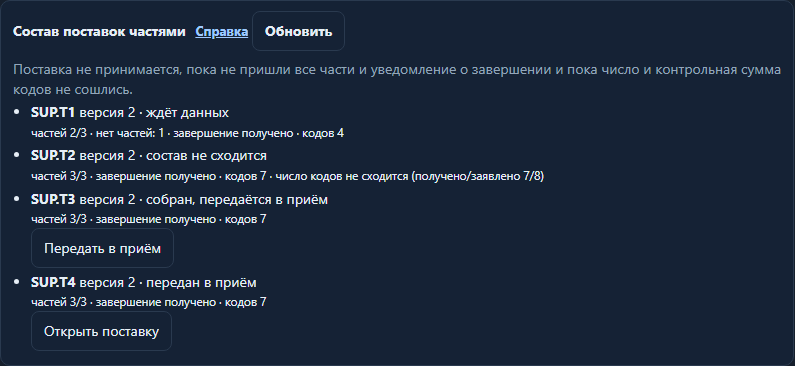
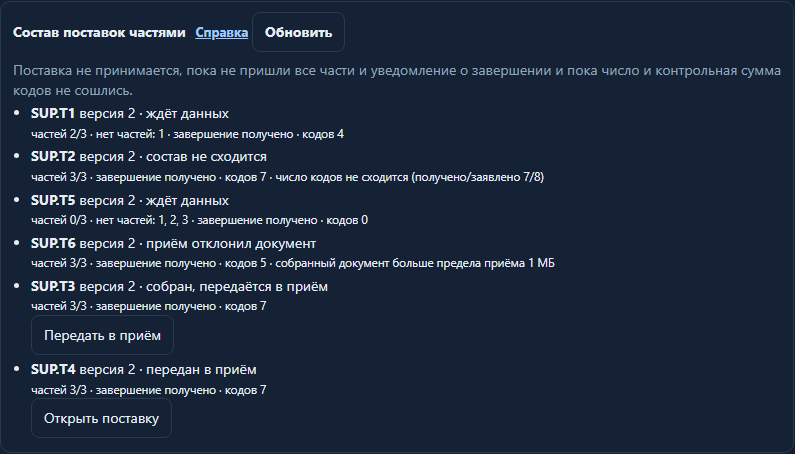
C-0163 rev1: END before parts stored with repeated header, slash-safe deliver body, bounded 1 MB assembled rejection

diff --git a/admin/wms_admin_frontend/public/help/tradecase-documents.html b/admin/wms_admin_frontend/public/help/tradecase-documents.html
@@ -147,10 +147,10 @@
 <p>Рядом с планом показываются факты визита и отклонения по ним: машина не приехала к началу плана, стоит у других ворот, встала позже плана или занимает ворота дольше плана. План при опоздании сам не пересчитывается. На общем Ганте план ворот показан плановым интервалом на дорожке ворот рядом с фактическими посещениями.</p>
 <p>Если раздел пишет, что план ворот на сервере ещё не включён, планы неизвестны — это не означает, что ворота свободны.</p></section>
 <section id="supply-parts"><h2>Состав поставки частями</h2>
-<p>Источник может передавать список кодов поставки частями: сначала части с номерами 1…N, затем уведомление о завершении с общим числом кодов и контрольной суммой. Поставка не принимается и товар не появляется, пока не пришли все части и завершение и пока число и контрольная сумма кодов не сошлись. Части могут приходить в любом порядке; повтор той же части ничего не меняет, другая часть под тем же номером отклоняется.</p>
+<p>Источник может передавать список кодов поставки частями: сначала части с номерами 1…N, затем уведомление о завершении с общим числом кодов и контрольной суммой. Поставка не принимается и товар не появляется, пока не пришли все части и завершение и пока число и контрольная сумма кодов не сошлись. Части и завершение могут приходить в любом порядке, в том числе завершение раньше первой части: тогда все части показываются как недостающие. Повтор той же части или завершения ничего не меняет; другая часть под тем же номером, другое завершение или другие сведения о поставке отклоняются.</p>
 <ol><li>Откройте вкладку «Сообщения обмена». Блок «Состав поставок частями» показывает каждую передачу: сколько частей получено, каких номеров нет, получено ли завершение и сколько кодов пришло.</li>
 <li>«Ждёт данных» — не хватает частей или завершения. «Состав не сходится» — число кодов или контрольная сумма не совпали с уведомлением о завершении: источник должен прислать исправленную версию.</li>
-<li>Когда всё сошлось, состав один раз передаётся в обычный приём документа. «Открыть поставку» открывает принятый документ.</li>
+<li>Когда всё сошлось, состав один раз передаётся в обычный приём документа. «Открыть поставку» открывает принятый документ. Если собранный документ больше предела приёма 1 МБ, передача отклоняется с этой причиной: источник должен разделить поставку.</li>
 <li>Если передача прервалась, нажмите «Передать в приём»: состав уйдёт тем же сообщением, и второй документ не появится.</li></ol>
 <p>Части старой версии после прихода новой ничего не меняют. Передачи собственников, к которым у вас нет доступа, не показываются. Этот формат — дополнение приёма WMS, а не протокол SAP. Исходящие подтверждения состава и закрытие сборки до подтверждения состава паллет этим блоком не покрываются.</p></section>
 </main></html>

diff --git a/admin/wms_admin_frontend/src/features/integrations/tradecase/SupplyParts.tsx b/admin/wms_admin_frontend/src/features/integrations/tradecase/SupplyParts.tsx
@@ -14,7 +14,8 @@ const STATUS: Record<string, string> = { OPEN: "ждёт данных", MISMATCH
 const help = (id: string, text: string) => ({ id: "tradecase.supply.parts." + id, text, anchor: "supply-parts" });
 const reason = (t: Transfer) => !t.status_reason ? "" : t.status_reason === "WAITING_END" ? "нет уведомления о завершении"
   : t.status_reason.startsWith("TOTAL_MISMATCH") ? `число кодов не сходится (получено/заявлено ${t.status_reason.split(":")[1]})`
-  : t.status_reason === "CODES_HASH_MISMATCH" ? "контрольная сумма кодов не сходится с уведомлением о завершении" : t.status_reason;
+  : t.status_reason === "CODES_HASH_MISMATCH" ? "контрольная сумма кодов не сходится с уведомлением о завершении"
+  : t.status_reason === "SUPPLY_ASSEMBLED_TOO_LARGE" ? "собранный документ больше предела приёма 1 МБ" : t.status_reason;
 
 export function SupplyParts({ wh, onOpen }: { wh: string; onOpen: (documentId: string) => void }) {
   const [reload, setReload] = useState(0), [busy, setBusy] = useState(""), [message, setMessage] = useState("");
@@ -22,7 +23,9 @@ export function SupplyParts({ wh, onOpen }: { wh: string; onOpen: (documentId: s
   const deliver = async (t: Transfer) => {
     setBusy(t.transfer_id); setMessage("");
     try {
-      await apiFetch(`/api/tradecase/warehouses/${encodeURIComponent(wh)}/supply-transfers/${encodeURIComponent(t.source_id)}/${encodeURIComponent(t.transfer_id)}/deliver`, { method: "POST" });
+      // Identifiers may contain "/": they go in the body, not in the path.
+      await apiFetch(`/api/tradecase/warehouses/${encodeURIComponent(wh)}/supply-transfers/deliver`, { method: "POST",
+        body: JSON.stringify({ source_id: t.source_id, transfer_id: t.transfer_id }) });
       setMessage(`Состав ${t.transfer_id} передан в приём.`);
     } catch (e) {
       setMessage(e instanceof ApiRequestError && e.status === 409 ? "Передача отклонена: обновите список и проверьте причину." : "Исход передачи не подтверждён — повторите: повтор не создаст второй документ.");

diff --git a/tests/tradecase/test_trade_supply_parts.py b/tests/tradecase/test_trade_supply_parts.py
@@ -5,8 +5,13 @@ import json
 import pathlib
 import re
 import pytest
+from fastapi import FastAPI
+from fastapi.testclient import TestClient
 from pydantic import ValidationError
-from app.modules.integrations.contracts_supply_parts import (TradeSupplyPart, TradeSupplyPartsEnd, assembled_event_id, codes_sha256, end_wire, part_wire)
+from app.modules.integrations.api.supply_parts_routes import router
+from app.modules.platform.public import get_current_user
+from app.modules.integrations.contracts_supply_parts import (TradeSupplyPart, TradeSupplyPartsEnd, assembled_event_id, codes_sha256, end_wire, part_wire,
+                                                             supply_parts_service)
 from app.modules.integrations.contracts_tradecase import TradecaseError, TradeSupply
 from app.modules.integrations.infrastructure import supply_parts as subject
 
@@ -27,7 +32,7 @@ def part(no, event=None, codes=None, **kw):
 def end(**kw):
     return TradeSupplyPartsEnd.model_validate({"schema_version": 1, "event_id": "E.END", "source_id": "TC03.SAP", "warehouse_id": 210564699, "document_id": "SUP.1",
                                                "version": 2, "transfer_id": "T1", "part_count": 3, "total_codes": 7, "codes_sha256": codes_sha256(CODES),
-                                               "occurred_at": "2026-10-23T10:05:00+00:00", **kw})
+                                               "occurred_at": "2026-10-23T10:05:00+00:00", "header": HEADER, **kw})
 
 
 def test_header_is_the_supply_without_codes_and_parts_are_numbered():
@@ -46,6 +51,8 @@ def test_hashes_bind_content_not_delivery_details():
     assert a["part_hash"] == b["part_hash"] and a["header_hash"] == b["header_hash"]  # same content, other event: a repeat
     assert part_wire(part(2, codes=SPLIT[3]))["part_hash"] != a["part_hash"]  # same number, other codes: a conflict natively
     assert end_wire(end())["end_hash"] == end_wire(end(event_id="E.END2"))["end_hash"]
+    assert end_wire(end())["header_hash"] == a["header_hash"]  # END repeats the part header: one header hash binds both
+    assert end_wire(end(header={**HEADER, "mrc": "201"}))["end_hash"] != end_wire(end())["end_hash"]
     assert assembled_event_id("TC03.SAP", 210564699, "T1") == assembled_event_id("TC03.SAP", 210564699, "T1") != assembled_event_id("TC03.SAP", 210564699, "T2")
     assert len(assembled_event_id("S" * 100, 1, "T" * 100)) <= 100
 
@@ -157,6 +164,45 @@ def test_order_2_end_1_hands_over_once_with_codes_in_part_order(received):
     assert len(received) == 1
 
 
+def test_end_first_then_2_then_1_hands_over_once(received):
+    native = Native(); svc = subject.OracleSupplyParts(Gateway(native))
+    first = svc.put_end(end(), "sap")
+    assert first["status"] == "OPEN" and first["missing_parts"] == [1, 2, 3] and first["end_received"] and received == []
+    assert svc.put_part(part(2), "sap")["missing_parts"] == [1, 3]
+    svc.put_part(part(3), "sap")
+    assert svc.put_part(part(1), "sap")["status"] == "DELIVERED" and [c.code for c in received[0].payload.codes] == CODES
+    svc.put_end(end(), "sap")  # a repeated END after delivery hands nothing over again
+    assert len(received) == 1
+
+
+def test_assembled_over_the_existing_limit_is_a_bounded_rejection(received, monkeypatch):
+    native = Native(); svc = subject.OracleSupplyParts(Gateway(native))
+    for n in (1, 2, 3):
+        native.parts[n] = SPLIT[n]
+    native.end, native.status = {"x": 1}, "COMPLETE"
+    monkeypatch.setattr(subject, "LIMIT", 500)  # the same rule as the 1 MB intake limit, with a small payload
+    r = svc.deliver(210564699, "TC03.SAP", "T1", "sap")
+    assert r["status"] == "DELIVERY_REJECTED" and native.delivered["reason"] == "SUPPLY_ASSEMBLED_TOO_LARGE" and received == []
+    assert subject.HASH_FIELDS == len(',"payload_hash":"' + "0" * 64 + '","business_hash":"' + "0" * 64 + '"')
+
+
+def test_deliver_route_carries_slash_identifiers_in_the_body():
+    calls = []
+
+    class Service:
+        def deliver(self, warehouse, source, transfer, actor):
+            calls.append((warehouse, source, transfer, actor))
+            return {"status": "DELIVERED"}
+    app = FastAPI(); app.include_router(router)
+    app.dependency_overrides[get_current_user] = lambda: type("U", (), {"username": "op"})()
+    app.dependency_overrides[supply_parts_service] = Service
+    client = TestClient(app)
+    r = client.post("/api/tradecase/warehouses/210564699/supply-transfers/deliver", json={"source_id": "TC03/SAP", "transfer_id": "T/1/2"})
+    assert r.status_code == 200 and calls == [(210564699, "TC03/SAP", "T/1/2", "op")]
+    assert client.post("/api/tradecase/warehouses/210564699/supply-transfers/deliver", json={"source_id": "TC03/SAP"}).status_code == 422
+    assert client.post("/api/tradecase/warehouses/210564699/supply-transfers/deliver", json={"source_id": "a b", "transfer_id": "T"}).status_code == 422
+
+
 def test_unknown_outcome_keeps_the_transfer_and_the_same_event_is_repeated(received):
     native = Native(); svc = subject.OracleSupplyParts(Gateway(native))
     for n in (1, 2, 3):
@@ -205,6 +251,11 @@ def test_native_rules():
         assert not re.search(r"\b[a-z]\.get_(string|number|object|array)\(", stmt), stmt[:120]  # JSON object methods never inside SQL
     assert "RRL_TRADE_SUPPLY_PART_APPEND before update or delete" in text("001_schema.sql")
     assert "SUPPLY_PART_HISTORY_PRESENT" in text("rollback.sql")
+    fin = body[body.index(" procedure put_end("):body.index(" procedure assembled(")]
+    assert "SUPPLY_TRANSFER_NOT_STARTED" not in fin  # END before the first part is stored, not refused
+    assert fin.index("lock_site(") < fin.index("require_owner(p_actor,p_ware,header,1)") < fin.index("for update")
+    assert fin.index("t.END_EVENT_ID=ev and t.END_HASH=eh") < fin.index("fail('SUPPLY_END_CONFLICT')") < fin.index("t.HEADER_HASH<>hh then fail('SUPPLY_PART_HEADER_CONFLICT')")
+    assert "insert into RRL_TRADE_SUPPLY_TRANSFER" in fin and "'OPEN',p_actor,ev,eh,tot,csha,occ" in fin and fin.count("assert_current(") == 2
 
 
 def test_kit_and_live_proofs():

diff --git a/api/wms_api_server/app/modules/integrations/infrastructure/supply_parts.py b/api/wms_api_server/app/modules/integrations/infrastructure/supply_parts.py
@@ -1,12 +1,16 @@
 """SUPPLY parts adapter (C-0163). Parts/END are stored by RRL_TRADE_SUPPLY_PARTS_API in one native transaction each. A complete
 transfer is handed to the existing intake as the same canonical SUPPLY under a deterministic event id, then marked delivered in a
-separate transaction: a lost response or restart repeats the hand-over with the same event id, which the intake answers idempotently."""
+separate transaction: a lost response or restart repeats the hand-over with the same event id, which the intake answers idempotently.
+An assembled SUPPLY over the existing 1 MB intake limit is recorded as a bounded rejection; the limit is not raised."""
 from typing import Any
 import oracledb
 from ...platform.public import read_oracle_json
 from ..contracts_supply_parts import (TradeSupplyPart, TradeSupplyPartsEnd, assembled_event_id, canonical, end_wire, part_wire)
 from ..contracts_tradecase import TradecaseError, TradeEnvelope
 from .tradecase_documents import OracleTradecaseDocuments, native_error
+
+LIMIT = 1024 * 1024
+HASH_FIELDS = len(',"payload_hash":"","business_hash":""') + 2 * 64  # added by the intake before its own limit check
 
 
 class OracleSupplyParts:
@@ -15,7 +19,7 @@ class OracleSupplyParts:
 
     def _call(self, procedure: str, warehouse: int, actor: str, value: dict[str, Any]) -> dict[str, Any]:
         raw = canonical(value)
-        if len(raw.encode()) > 1024 * 1024:
+        if len(raw.encode()) > LIMIT:
             raise TradecaseError("TRADECASE_MESSAGE_TOO_LARGE", 413)
         try:
             with self.gateway.transaction("TRADECASE supply parts " + procedure) as cur:
@@ -54,6 +58,8 @@ class OracleSupplyParts:
                                                  "document_id": state["document_id"], "version": state["version"],
                                                  "occurred_at": packed["end_occurred_at"], "payload": {**packed["header"], "codes": packed["codes"]}})
         try:
+            if len(canonical(envelope.model_dump(mode="json")).encode()) + HASH_FIELDS > LIMIT:
+                raise TradecaseError("SUPPLY_ASSEMBLED_TOO_LARGE", 409)  # deterministic: the same parts never fit, so not retried
             receipt, outcome, reason = OracleTradecaseDocuments(self.gateway).receive(envelope, actor), "DELIVERED", None
         except TradecaseError as exc:
             if exc.status != 409:

diff --git a/api/wms_api_server/app/modules/integrations/contracts_supply_parts.py b/api/wms_api_server/app/modules/integrations/contracts_supply_parts.py
@@ -1,7 +1,8 @@
 """SUPPLY composition in parts (C-0163): an additive WMS intake contract, not a declared SAP wire format.
 
 A transfer binds source/warehouse/document/version/transfer_id. Every part repeats the SUPPLY header (all fields except codes) and
-carries part_no of part_count; END states the total code count and the SHA-256 of all codes joined by LF in part order. Only a complete,
+carries part_no of part_count; END repeats the same header and states the total code count and the SHA-256 of all codes joined by LF
+in part order, so END may arrive before any part. Only a complete,
 verified transfer becomes the same canonical SUPPLY document through the existing intake."""
 from hashlib import sha256
 import json
@@ -56,6 +57,7 @@ class TradeSupplyPartsEnd(TradeModel):
     total_codes: int = Field(strict=True, ge=1, le=10000)
     codes_sha256: str = Field(pattern=r"^[a-f0-9]{64}$")
     occurred_at: AwareDatetime
+    header: TradeSupplyHeader  # type: ignore[valid-type]
 
 
 def part_wire(body: TradeSupplyPart) -> dict[str, Any]:
@@ -66,12 +68,18 @@ def part_wire(body: TradeSupplyPart) -> dict[str, Any]:
 
 def end_wire(body: TradeSupplyPartsEnd) -> dict[str, Any]:
     value = body.model_dump(mode="json")
-    content = {k: value[k] for k in ("document_id", "version", "transfer_id", "part_count", "total_codes", "codes_sha256")}
-    return {**value, "end_hash": digest(content)}
+    content = {k: value[k] for k in ("document_id", "version", "transfer_id", "part_count", "total_codes", "codes_sha256", "header")}
+    return {**value, "end_hash": digest(content), "header_hash": digest(value["header"])}
 
 
 def codes_sha256(codes: list[str]) -> str:
     return sha256("\n".join(codes).encode()).hexdigest()
+
+
+class SupplyTransferKey(TradeModel):
+    """Hand-over retry target in the body: Key identifiers may contain '/', which a path segment cannot carry."""
+    source_id: Key
+    transfer_id: Key
 
 
 def assembled_event_id(source: str, warehouse: int, transfer: str) -> str:

diff --git a/api/wms_api_server/app/modules/integrations/api/supply_parts_routes.py b/api/wms_api_server/app/modules/integrations/api/supply_parts_routes.py
@@ -3,7 +3,7 @@ from collections.abc import Callable
 from typing import Any
 from fastapi import APIRouter, Depends, HTTPException, Path, Query
 from ...platform.public import AdminUser, get_current_user
-from ..contracts_supply_parts import SupplyPartsPort, TradeSupplyPart, TradeSupplyPartsEnd, supply_parts_service
+from ..contracts_supply_parts import SupplyPartsPort, SupplyTransferKey, TradeSupplyPart, TradeSupplyPartsEnd, supply_parts_service
 from ..contracts_tradecase import TradecaseError
 
 router = APIRouter(prefix="/api/tradecase", tags=["tradecase"])
@@ -34,7 +34,7 @@ def transfers(warehouse_id: int = Path(gt=0), limit: int = Query(default=50, ge=
     return _call(lambda: service.transfers(warehouse_id, limit, user.username))
 
 
-@router.post("/warehouses/{warehouse_id}/supply-transfers/{source_id}/{transfer_id}/deliver")
-def deliver(warehouse_id: int = Path(gt=0), source_id: str = Path(min_length=1, max_length=100), transfer_id: str = Path(min_length=1, max_length=100),
-            user: AdminUser = Depends(get_current_user), service: SupplyPartsPort = Depends(supply_parts_service)) -> dict[str, Any]:
-    return _call(lambda: service.deliver(warehouse_id, source_id, transfer_id, user.username))
+@router.post("/warehouses/{warehouse_id}/supply-transfers/deliver")
+def deliver(body: SupplyTransferKey, warehouse_id: int = Path(gt=0), user: AdminUser = Depends(get_current_user),
+            service: SupplyPartsPort = Depends(supply_parts_service)) -> dict[str, Any]:
+    return _call(lambda: service.deliver(warehouse_id, body.source_id, body.transfer_id, user.username))

diff --git a/reports/tradecase/2026-10-23/claude/C0163/README.md b/reports/tradecase/2026-10-23/claude/C0163/README.md
@@ -1,4 +1,6 @@
-# C-0163 — состав поставки частями, T02 (Claude)
+# C-0163 — состав поставки частями, T02 (Claude), rev1
+
+rev1 по замечаниям Codex: END раньше первой части сохраняется (END повторяет заголовок SUPPLY); повторная передача принимает source_id и transfer_id в теле (`/` допустим); собранный документ больше существующего предела 1 МБ даёт ограниченный отказ `SUPPLY_ASSEMBLED_TOO_LARGE`, предел не повышен.
 
 Native-комплект **NOT_APPLIED**. Живые HTTP/Oracle-проверки выполняет root. Весь T02 этим пакетом не закрывается. Контракт частей — собственное дополнение приёма WMS, а не протокол SAP.
 
@@ -19,7 +21,7 @@ Native-комплект **NOT_APPLIED**. Живые HTTP/Oracle-проверки
   - тот же event_id и тело → прежнее состояние с `replayed`; другое тело → `SUPPLY_PART_EVENT_CONFLICT`;
   - тот же номер части с теми же кодами → повтор; с другими → `SUPPLY_PART_CONFLICT`;
   - другой заголовок, document/version или part_count → `SUPPLY_PART_HEADER_CONFLICT`;
-  - END: повтор того же — прежнее состояние; другое → `SUPPLY_END_CONFLICT`; END до первой части → `SUPPLY_TRANSFER_NOT_STARTED` (не к чему привязать итог).
+  - END повторяет тот же заголовок SUPPLY (header_hash общий с частями; end_hash включает заголовок). END до первой части: проверка собственника по заголовку, transfer создаётся с END и нулём частей, все части в списке недостающих. Последующие части обязаны совпасть по заголовку, document, version и count, иначе `SUPPLY_PART_HEADER_CONFLICT`. Повтор того же END — прежнее состояние; другой END → `SUPPLY_END_CONFLICT`. Nullable собственника и второго журнала нет.
 - **Устаревшее**: часть или END старой версии при более новой версии (transfer или принятый документ) → `SUPPLY_PART_VERSION_SUPERSEDED`, ничего не меняет.
 - **Полнота**: COMPLETE только при всех частях 1..N, END, совпадении числа кодов и SHA-256 кодов, склеенных переводом строки в порядке частей. Иначе OPEN (видно, каких частей нет, получено ли завершение) или MISMATCH (`TOTAL_MISMATCH:получено/заявлено`, `CODES_HASH_MISMATCH`). Сумма кодов ≤ 10000, частей ≤ 1000.
 - **Передача ровно один раз** (Python `infrastructure/supply_parts.py`):
@@ -27,10 +29,11 @@ Native-комплект **NOT_APPLIED**. Живые HTTP/Oracle-проверки
   - event_id детерминирован: `PARTS.<sha(source|warehouse|transfer)>`;
   - затем `mark_delivered` в отдельной транзакции;
   - неизвестный исход (503) оставляет COMPLETE: следующий повтор части или END либо кнопка «Передать в приём» повторяет то же сообщение, и существующий приём отвечает прежней квитанцией;
-  - деловой отказ приёма (409) фиксируется как `DELIVERY_REJECTED`, без бесконечных повторов.
+  - деловой отказ приёма (409) фиксируется как `DELIVERY_REJECTED`, без бесконечных повторов;
+  - до `receive` проверяется размер собранного канонического сообщения по тому же правилу, что у приёма (canonical JSON + поля payload_hash и business_hash ≤ 1 МБ). Превышение детерминировано, поэтому фиксируется как `DELIVERY_REJECTED` с причиной `SUPPLY_ASSEMBLED_TOO_LARGE`; ответ 200 с этим состоянием, не 500. Предел не повышен.
   - Транзакции не ждут внешнюю систему; второго движка доставки и второго writer товара нет; коды физического прихода не пишутся.
 - **Чтение**: `transfers` — tradecase_view; скрытые собственники отфильтрованы до лимита.
-- **API**: `POST /api/tradecase/supply-parts`, `POST /api/tradecase/supply-parts/end`, `GET /api/tradecase/warehouses/{w}/supply-transfers`, `POST …/supply-transfers/{source}/{transfer}/deliver`.
+- **API**: `POST /api/tradecase/supply-parts`, `POST /api/tradecase/supply-parts/end`, `GET /api/tradecase/warehouses/{w}/supply-transfers`, `POST /api/tradecase/warehouses/{w}/supply-transfers/deliver` (тело `{source_id, transfer_id}`, Key допускает `/`).
 - **UI**: блок «Состав поставок частями» во вкладке «Сообщения обмена» (`SupplyParts.tsx`): ждёт данных или нет частей, состав не сходится (с числами), передан в приём («Открыть поставку» открывает документ SUPPLY), «Передать в приём» для собранного. 401/403 очищают список. Справка — `#supply-parts`.
 
 ## Доказательства
@@ -38,15 +41,15 @@ Native-комплект **NOT_APPLIED**. Живые HTTP/Oracle-проверки
 |---|---|---|
 | SHA кодов в native (json_table по частям, порядок PART_NO и позиция, склейка LF) | равна правилу отправителя в Python при приходе частей 2→3→1 | LIVE READ ONLY анонимный блок |
 | Запрос недостающих частей из state() | 6 частей, получены 2 и 5 → [1, 3, 4, 6] | LIVE READ ONLY |
-| pytest `test_trade_supply_parts.py` 7/7 | заголовок = SUPPLY без кодов; хэши связывают содержимое; порядок 2→3→END→1: до последней части ничего не принято, затем ровно одна передача с кодами по порядку, повтор после передачи ничего не передаёт; неизвестный исход — тот же event_id при повторе; деловой отказ фиксируется; native-правила (порядок блокировок, конфликты, устаревшая версия, полнота, фильтр до лимита, JSON-методы не в SQL); комплект и хэши | offline |
+| pytest `test_trade_supply_parts.py` 10/10 (rev1: END→2→1, повтор END после передачи, END с другим заголовком меняет hash, native-порядок put_end, ASGI deliver со `/` в source и transfer, предел 1 МБ) | заголовок = SUPPLY без кодов; хэши связывают содержимое; порядок 2→3→END→1: до последней части ничего не принято, затем ровно одна передача с кодами по порядку, повтор после передачи ничего не передаёт; неизвестный исход — тот же event_id при повторе; деловой отказ фиксируется; native-правила (порядок блокировок, конфликты, устаревшая версия, полнота, фильтр до лимита, JSON-методы не в SQL); комплект и хэши | offline |
 | Найдено тестом до передачи | JSON-методы внутри UPDATE в put_end и mark_delivered (ORA-40573) — исправлено | offline |
-| UI `scripts/c0163_ui.cjs` 16/16 при 1440/390 | LIVE: вкладка сообщений; FIXTURE: список передач (нет части, несовпадение, передан), повторная передача, открытие поставки, title и help, нет горизонтального скролла, справка 200, 403 очищает | LIVE + FIXTURE |
-| Прежние тесты tradecase intake (24), gate, encoding | PASS | — |
+| UI `scripts/c0163_ui.cjs` 16/16 при 1440/390 | LIVE: вкладка сообщений; FIXTURE: список передач (нет части, END до частей, несовпадение, больше 1 МБ, передан), повторная передача с source `TC03/SAP` в теле, повторная передача, открытие поставки, title и help, нет горизонтального скролла, справка 200, 403 очищает | LIVE + FIXTURE |
+| tests/tradecase -k trade 254/255, gate, encoding | PASS; единственный FAIL — `test_case_paper.py::test_native_candidate_adds_one_locked_hook…` по POSTING_API, файлы root, C0163 их не трогает | — |
 
 Пакет не скомпилирован: нужны новые таблицы. Компиляцию проверяет `verify.sql` при apply.
 
 Живые сценарии root после apply:
-- порядок 2→END→1;
+- порядки 2→END→1 и END→2→1; повтор END; END с другим заголовком;
 - повтор и конфликт части;
 - исправленная версия, затем старая часть;
 - рестарт до и после канонического приёма;
@@ -56,6 +59,4 @@ Native-комплект **NOT_APPLIED**. Живые HTTP/Oracle-проверки
 ## Не покрывается этим инкрементом
 - Исходящие подтверждения состава в сторону источника и повторный запрос недостающей части со стороны WMS.
 - Сценарий «завершение сборки пришло раньше подтверждения состава паллет».
-- END до первой части отклоняется с причиной, а не хранится до прихода заголовка.
-- Источник с символом `/` в идентификаторе не адресуется в пути повторной передачи; повтор части или END работает и для него.
 - Размер собранного документа ограничен прежним пределом приёма 1 МБ.
